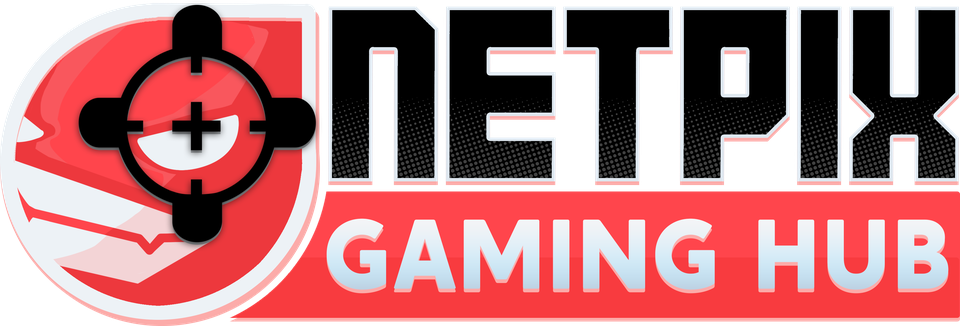
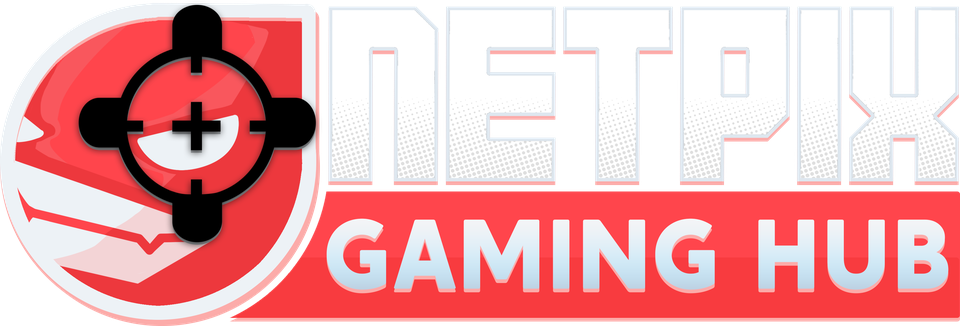
Header: dark NETPIX GAMING HUB wordmark (white letters), no white strip

Changed region(s): [[0.3438, 0.0307, 1.0, 0.5521]]

diff --git a/css/app.css b/css/app.css
@@ -8,10 +8,9 @@
 html, body { margin: 0; background: var(--bg); color: var(--text);
   font: 16px/1.45 system-ui, -apple-system, "Segoe UI", Roboto, sans-serif; }
 main { max-width: 460px; margin: 0 auto; padding: 18px 16px 40px; }
-/* The wordmark has black letters, so it sits on a white strip. */
+/* NETPIX GAMING HUB wordmark, dark version (white letters) - sits straight on the dark page. */
 header.brand { text-align: center; margin: 0 0 16px; }
-header.brand .logo { display: block; width: 100%; max-width: 340px; height: auto; margin: 0 auto; background: #fff;
-  border-radius: var(--r); padding: 12px 22px; }
+header.brand .logo { display: block; width: 100%; max-width: 300px; height: auto; margin: 0 auto; }
 header.brand .sub { color: var(--dim); font-size: 14px; margin-top: 8px; }
 .card { background: var(--card); border: 1px solid var(--line); border-radius: var(--r); padding: 18px; margin-bottom: 14px; }
 h2 { margin: 0 0 6px; font-size: 19px; }

diff --git a/sw.js b/sw.js
@@ -1,6 +1,6 @@
 /* Keeps phones on the newest version. VERSION + FILES are stamped by ../_dev/deploy_web.py; don't edit those two lines by hand.
    Caches are named "reserve-v-…": /workout and /pantry share this origin and each only deletes its own prefix. */
-const VERSION = "reserve-v-1359eda574f8";
+const VERSION = "reserve-v-10bbe182a8eb";
 const FILES = ["./", "css/app.css", "icons/apple-touch-icon.png", "icons/favicon-64.png", "icons/icon-192.png", "icons/icon-512.png", "icons/maskable-512.png", "icons/owner-apple-touch-icon.png", "icons/owner-favicon-64.png", "icons/owner-icon-192.png", "icons/owner-icon-512.png", "icons/owner-maskable-512.png", "icons/wordmark.png", "index.html", "js/api.js", "js/app.js", "js/owner.js", "js/pwa.js", "js/usercheck.js", "manifest.webmanifest", "owner.html", "owner.webmanifest"];
 
 self.addEventListener("install", e => {
